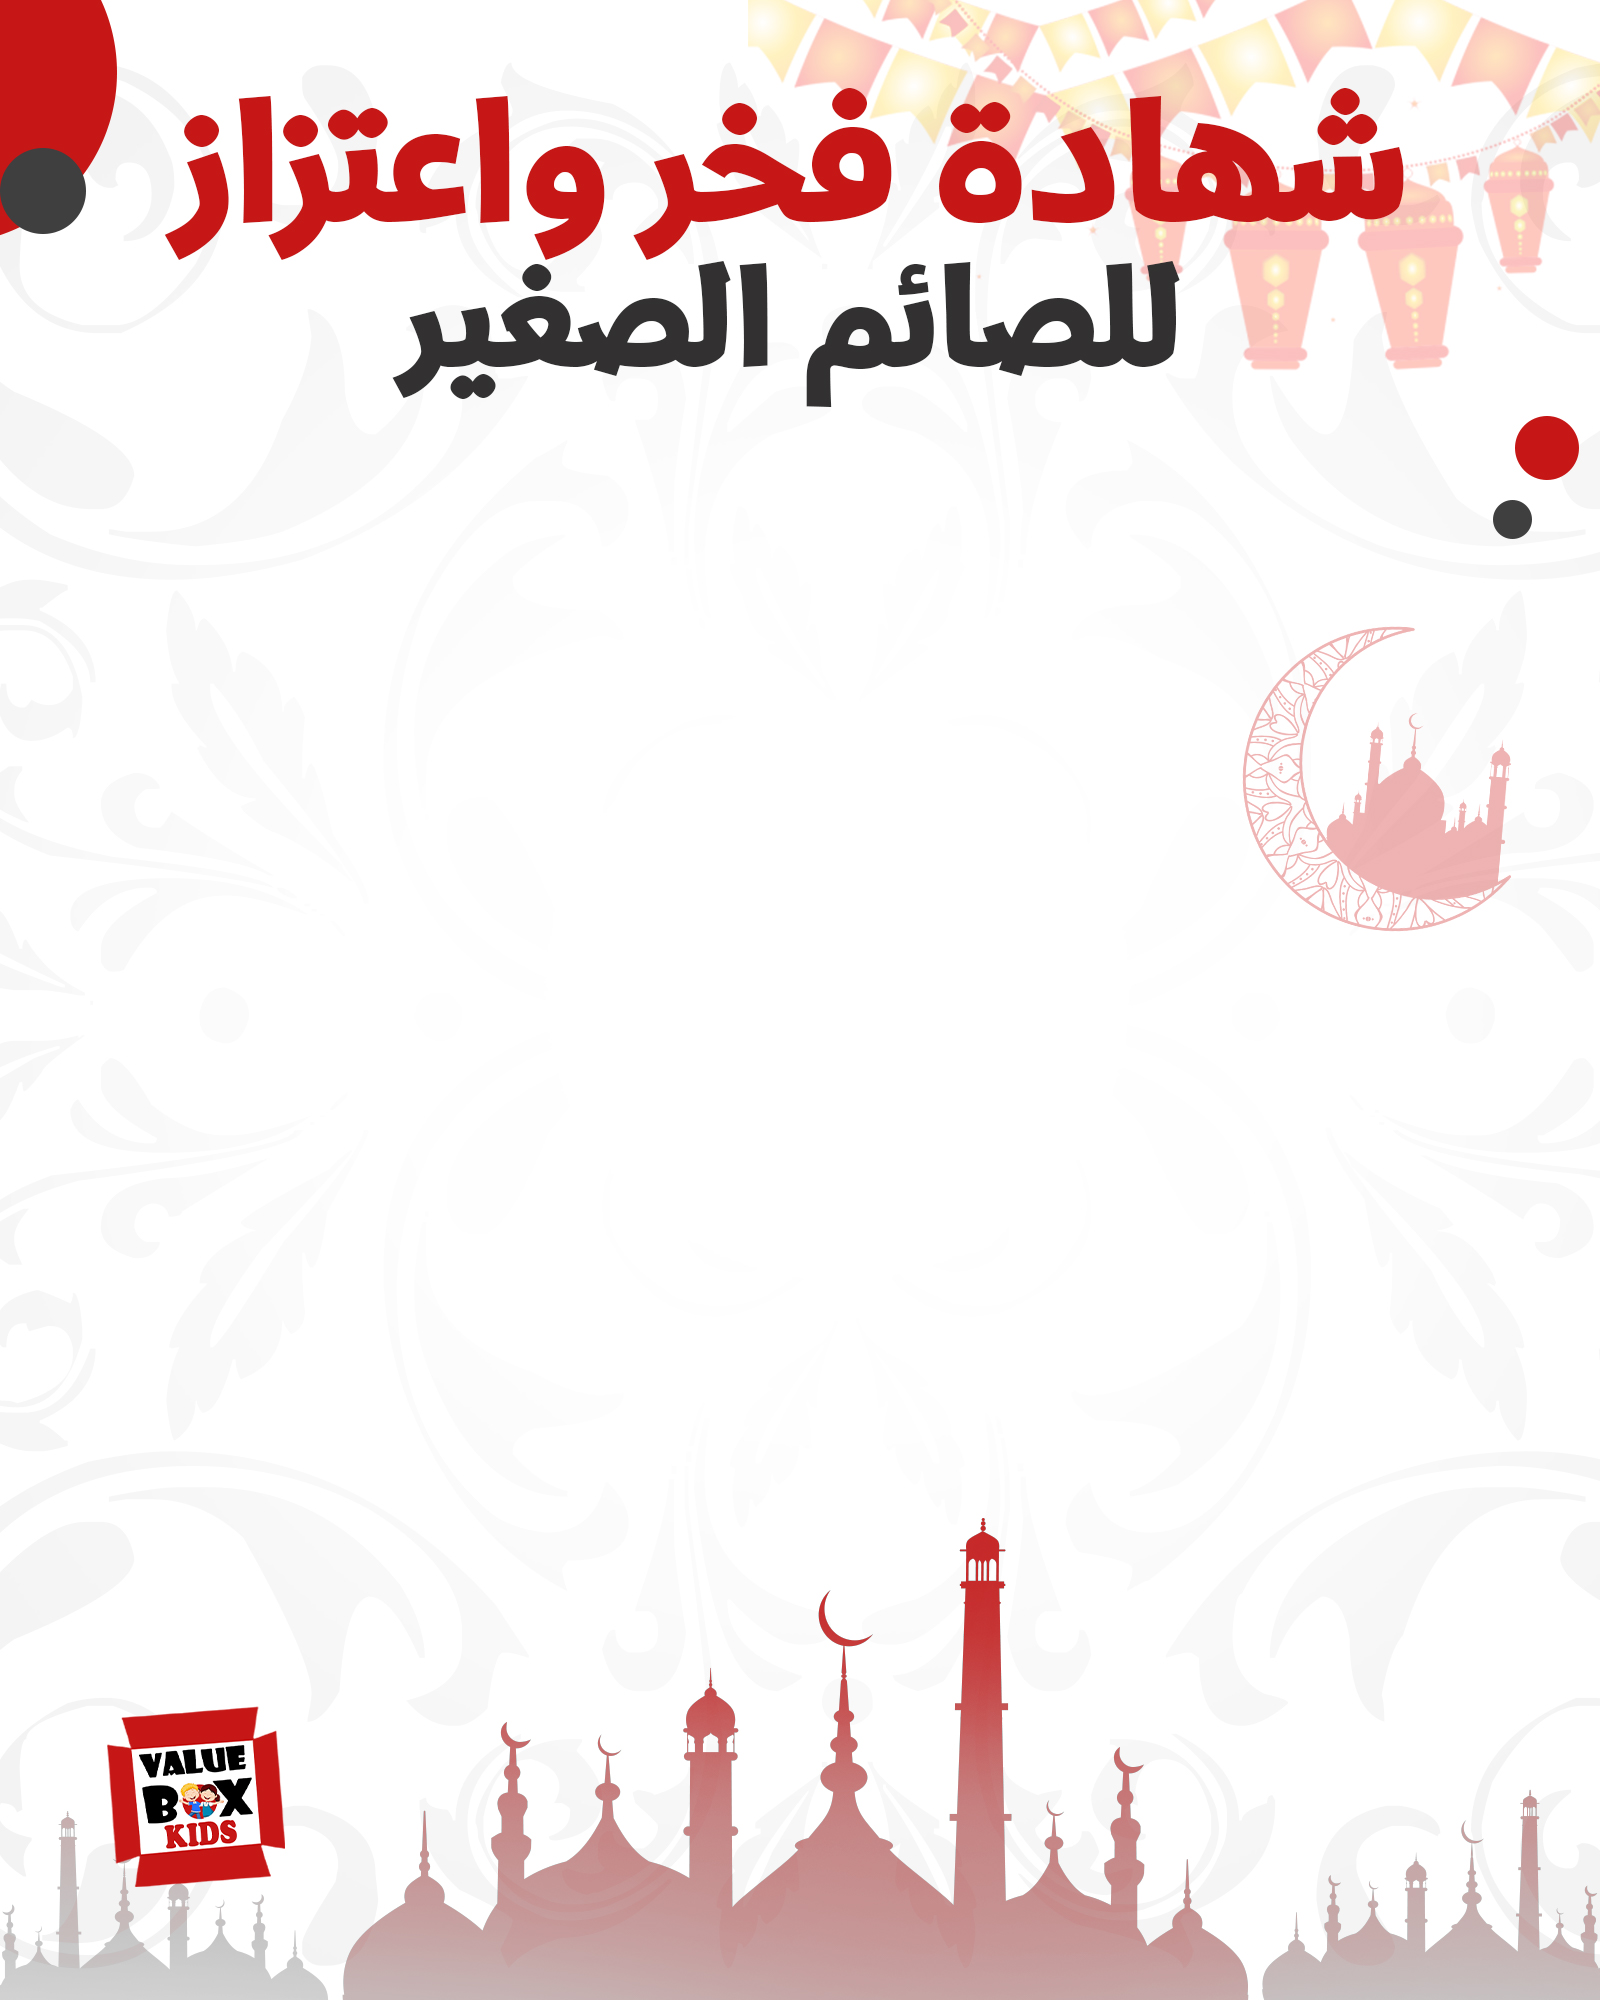
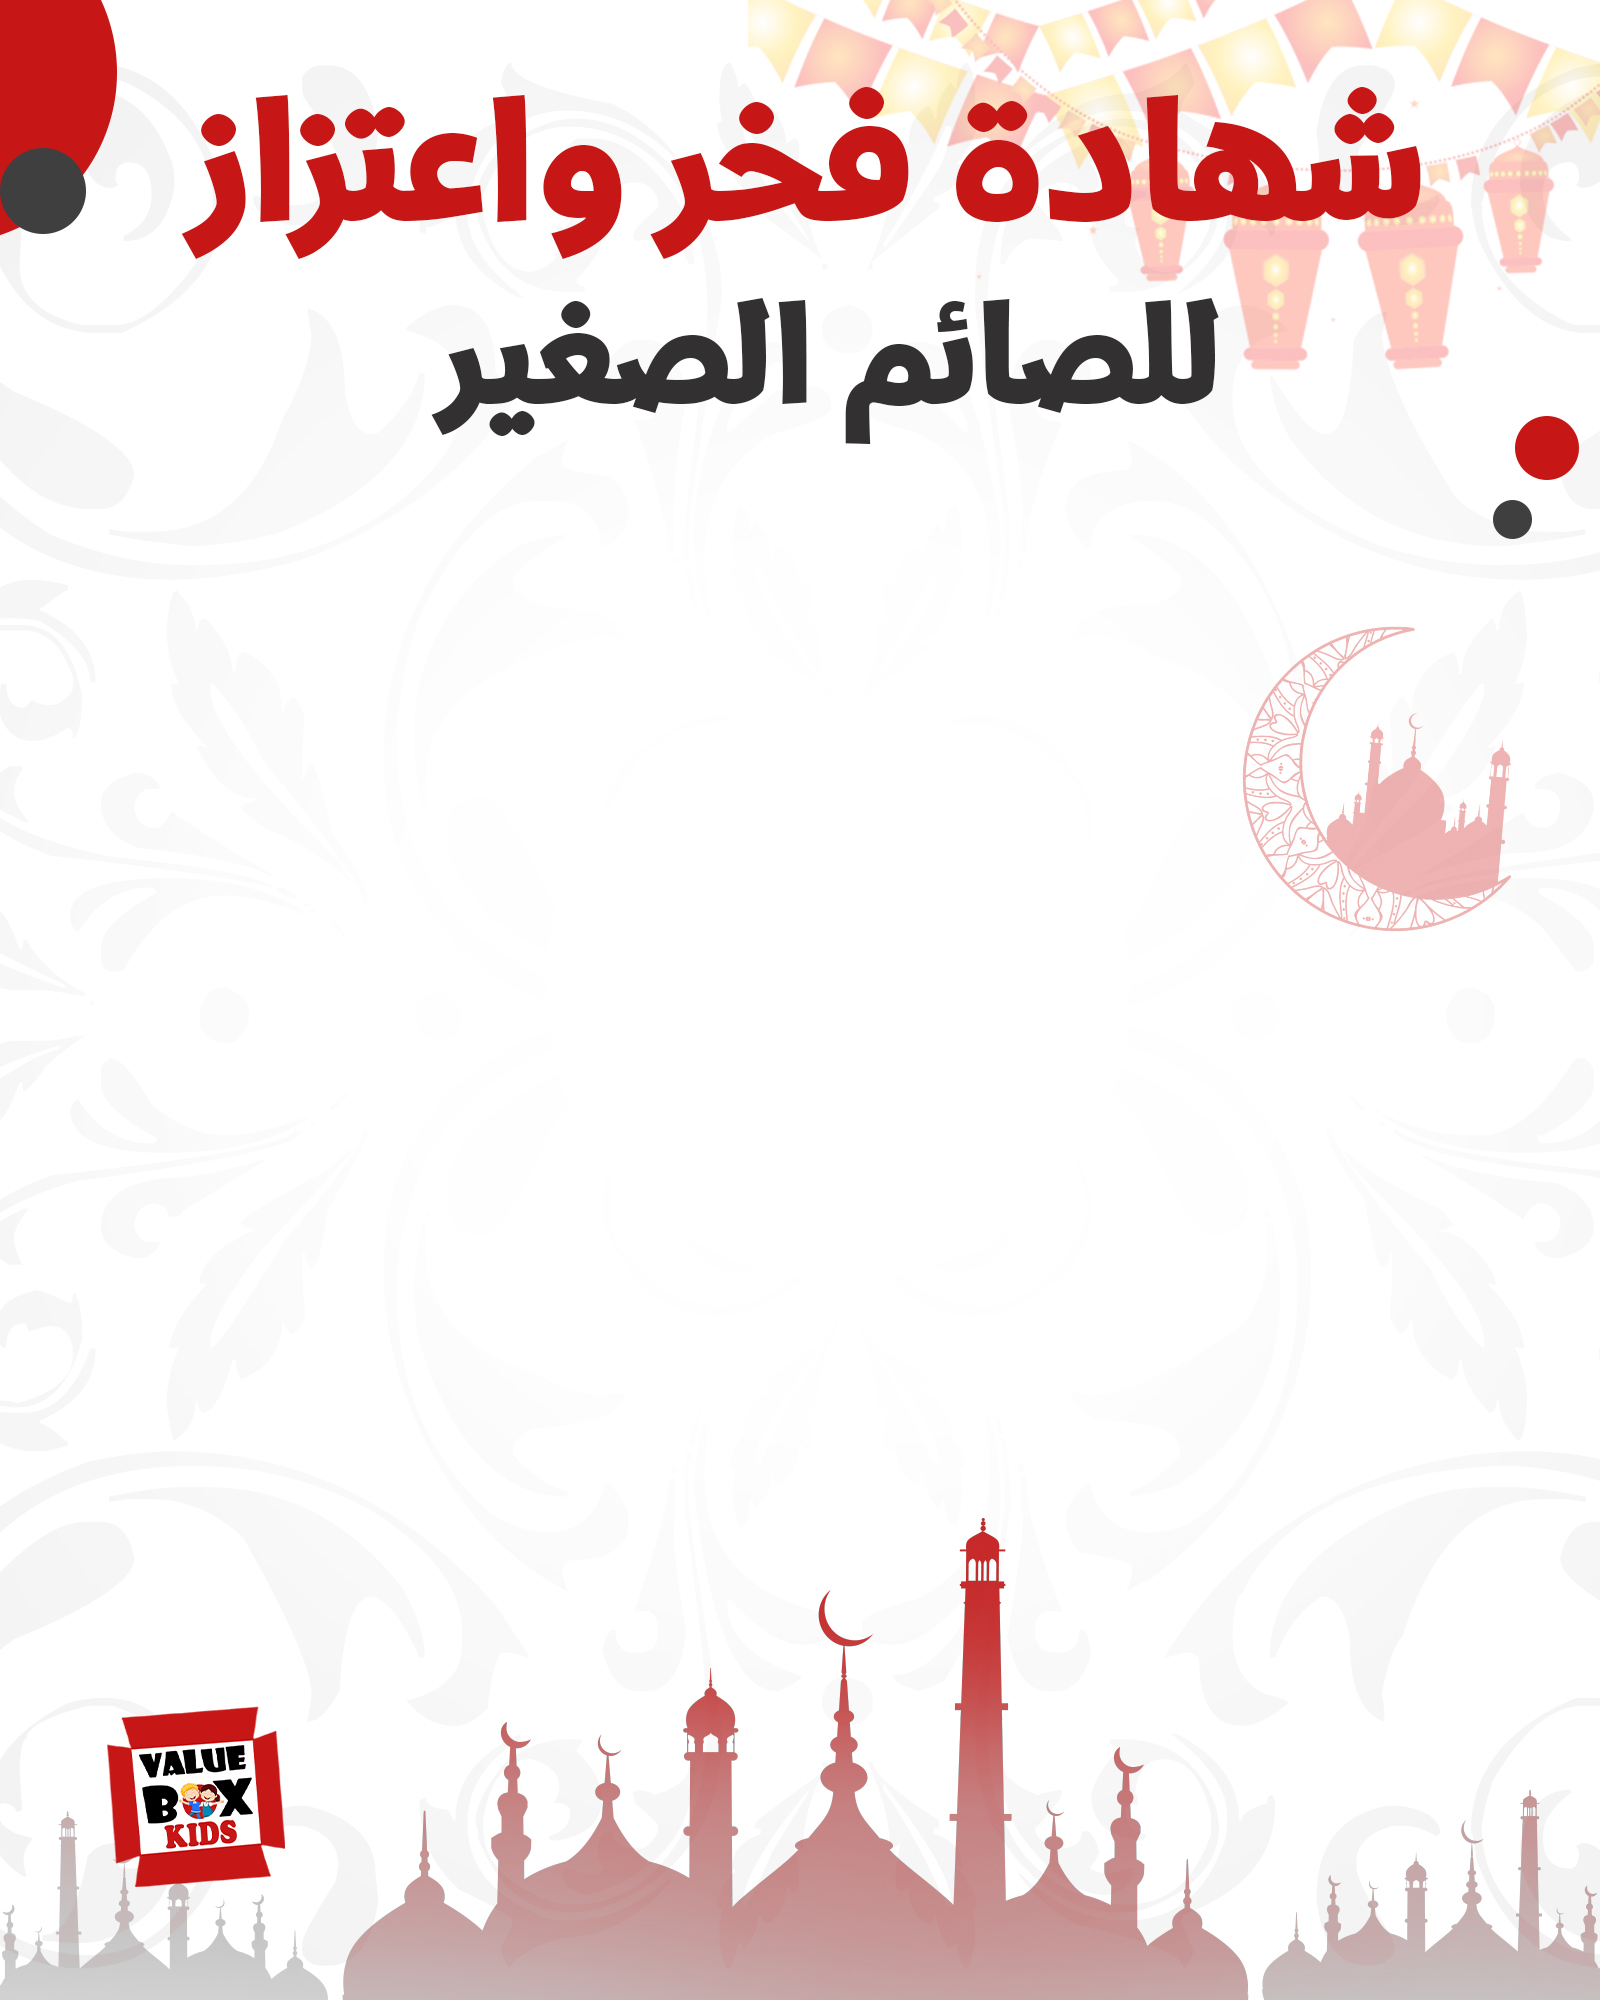
first commit hh

Changed region(s): [[0.0938, 0.031, 0.9062, 0.217]]

diff --git a/index.html b/index.html
@@ -18,6 +18,9 @@
     <link rel="stylesheet" href="styles.css">
     <link rel="stylesheet" href="https://cdnjs.cloudflare.com/ajax/libs/font-awesome/6.0.0/css/all.min.css">
     <link rel="stylesheet" href="https://cdnjs.cloudflare.com/ajax/libs/cropperjs/1.5.13/cropper.min.css">
+    <link rel="preconnect" href="https://fonts.googleapis.com">
+    <link rel="preconnect" href="https://fonts.gstatic.com" crossorigin>
+    <link href="https://fonts.googleapis.com/css2?family=IBM+Plex+Sans+Arabic:wght@700&display=swap" rel="stylesheet">
 </head>
 <body>
     <header>
@@ -51,7 +54,7 @@
 
                         <div class="form-group">
                             <label for="signature">التوقيع</label>
-                            <input type="text" id="signature" name="signature" 
+                            <input type="text" id="signature" id="ibm-plex-sans-arabic-bold" name="signature" 
                                    placeholder="أدخل توقيعك" 
                                    dir="rtl" 
                                    maxlength="11"

diff --git a/styles.css b/styles.css
@@ -595,7 +595,7 @@ footer {
     color: #c61716;
     font-size: 32px;
     margin-bottom: 1.5rem;
-    padding-top: 170px;
+    padding-top: 190px;
     line-height: 1.4;
 }
 
@@ -627,7 +627,8 @@ label[for="fullName"], label[for="signature"] {
     display: block;
     margin-bottom: 10px;
     color: var(--primary-color);
-    font-weight: 500;
+    font-weight: 1900;
+    font-style: bold;
 }
 
 /* Base label styling */
@@ -1109,3 +1110,5 @@ input[type="file"] {
     font-weight: bold;
     color: #065e69;
 }
+
+

diff --git a/script.js b/script.js
@@ -22,7 +22,7 @@ document.addEventListener('DOMContentLoaded', () => {
             signature: {
                 x: 430,      // Always Start at x position == 760px
                 y: 1525,     // Vertical position
-                fontSize: 65,// Font size
+                fontSize: 79,// Font size
                 fontFamily: '"Segoe UI", Arial, sans-serif', // Font family
                 color: '#c61716' // Text color
             }
